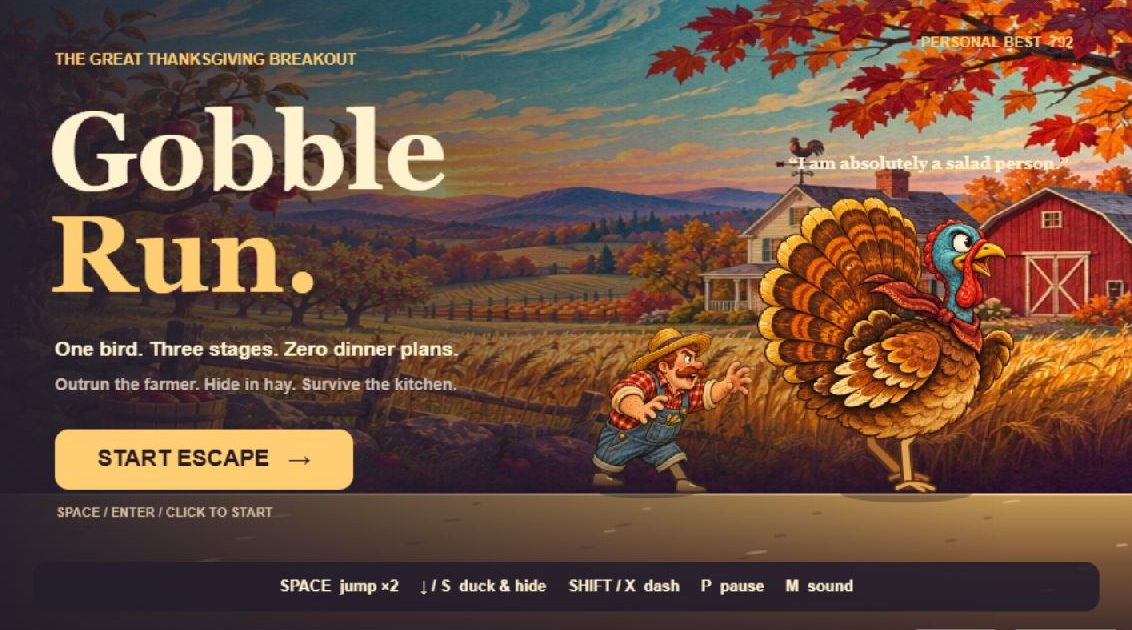
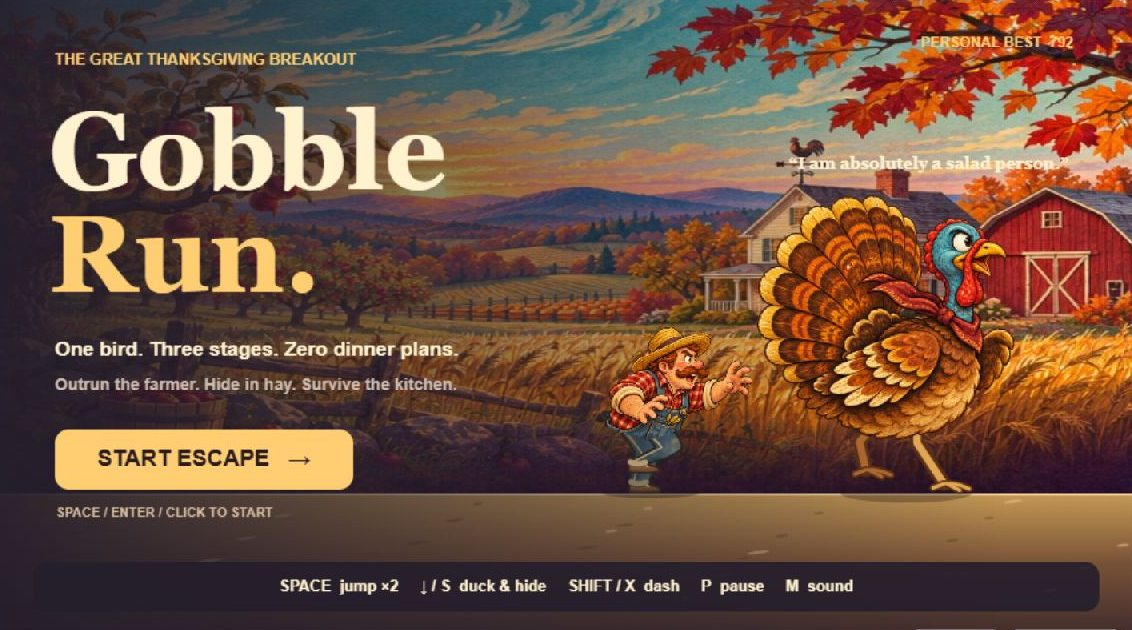
Animate the farmer from the hips through the knees

diff --git a/game/src/characters.js b/game/src/characters.js
@@ -86,19 +86,62 @@ export function drawPaintedTurkey(ctx, art, turkey) {
   ctx.restore();
 }
 
-function farmerBoot(ctx, cuffX, cuffY, ankleX, soleY, rear) {
-  ctx.lineCap = 'round';
+function farmerTrouserLeg(ctx, art, hipX, hipY, ankleX, soleY, rear) {
+  const ankleY = soleY - 6;
+  const dx = ankleX - hipX;
+  const dy = ankleY - hipY;
+  const distance = Math.hypot(dx, dy);
+  // Bend the knee forward between the hip and the planted or swinging foot.
+  const bend = Math.sqrt(Math.max(0, 21 ** 2 - (distance / 2) ** 2));
+  const kneeX = hipX + dx / 2 + dy / distance * bend;
+  const kneeY = hipY + dy / 2 - dx / distance * bend;
+
+  const denim = ctx.createLinearGradient(kneeX - 11, kneeY, kneeX + 9, kneeY);
+  denim.addColorStop(0, rear ? '#222c31' : '#28363b');
+  denim.addColorStop(0.64, rear ? '#364650' : '#405564');
+  denim.addColorStop(1, rear ? '#465250' : '#626959');
+  ctx.fillStyle = denim;
+  ctx.strokeStyle = '#242425';
+  ctx.lineWidth = 1.35;
   ctx.lineJoin = 'round';
   ctx.beginPath();
-  ctx.moveTo(cuffX, cuffY);
-  ctx.lineTo(ankleX, soleY - 5);
-  ctx.strokeStyle = '#342721';
-  ctx.lineWidth = 8.5;
-  ctx.stroke();
-  ctx.strokeStyle = rear ? '#634630' : '#8f633d';
-  ctx.lineWidth = 5.5;
+  ctx.moveTo(hipX - 12, hipY - 7);
+  ctx.quadraticCurveTo(kneeX - 10, kneeY - 5, kneeX - 7, kneeY + 2);
+  ctx.lineTo(ankleX - 6, ankleY);
+  ctx.quadraticCurveTo(ankleX, ankleY + 3, ankleX + 6, ankleY);
+  ctx.quadraticCurveTo(kneeX + 7, kneeY + 7, kneeX + 9, kneeY + 2);
+  ctx.quadraticCurveTo(kneeX + 10, kneeY - 4, hipX + 10, hipY - 8);
+  ctx.closePath();
+  ctx.fill();
+  // Reuse the painted denim grain to blend the moving legs into the bib.
+  const left = Math.min(hipX - 12, kneeX - 10, ankleX - 6);
+  const right = Math.max(hipX + 10, kneeX + 10, ankleX + 6);
+  ctx.save();
+  ctx.clip();
+  ctx.globalAlpha *= rear ? 0.34 : 0.55;
+  ctx.drawImage(art, 33, 313, 22, 24, left, hipY - 8, right - left, ankleY - hipY + 12);
+  ctx.restore();
   ctx.stroke();
 
+  ctx.lineCap = 'round';
+  ctx.lineWidth = 1;
+  ctx.strokeStyle = rear ? '#8b785a' : '#bc9c68';
+  ctx.beginPath();
+  ctx.moveTo(hipX - 6, hipY - 4);
+  ctx.quadraticCurveTo(kneeX - 6, kneeY - 3, kneeX - 3, kneeY + 2);
+  ctx.lineTo(ankleX - 3, ankleY - 1);
+  ctx.stroke();
+  ctx.lineWidth = 3.4;
+  ctx.strokeStyle = rear ? '#85745a' : '#b49a72';
+  ctx.beginPath();
+  ctx.moveTo(ankleX - 4.6, ankleY - 0.8);
+  ctx.quadraticCurveTo(ankleX, ankleY + 1.3, ankleX + 4.6, ankleY - 0.7);
+  ctx.stroke();
+}
+
+function farmerBoot(ctx, ankleX, soleY, rear) {
+  ctx.lineCap = 'round';
+  ctx.lineJoin = 'round';
   ctx.save();
   ctx.translate(ankleX, soleY);
   ctx.beginPath();
@@ -127,21 +170,33 @@ function farmerBoot(ctx, cuffX, cuffY, ankleX, soleY, rear) {
 }
 
 export function drawPaintedFarmer(ctx, art, farmer) {
-  const phase = (farmer.legTimer * 0.25) % TAU;
-  const bodyX = -48;
-  const bodyWidth = 98;
-  const bodyHeight = 89;
-  const bodyBottom = -10 - Math.abs(Math.sin(phase)) * 2;
+  const phase = (farmer.legTimer * 0.18) % TAU;
+  const bob = -2 * Math.sin(phase) ** 2;
   ctx.save();
   ctx.translate(farmer.x + farmer.width / 2, farmer.y + farmer.height);
-  shadow(ctx, -14, 29, 0.38);
+  shadow(ctx, -12, 29, 0.38);
   for (const rear of [true, false]) {
-    // The illustration already has two separate trouser cuffs.
-    const cuffX = bodyX + (rear ? 0.115 : 0.48) * bodyWidth;
-    const cuffY = bodyBottom - (rear ? 5 : 10);
-    const [swing, rise] = stride(phase + (rear ? Math.PI : 0), 7, 6);
-    farmerBoot(ctx, cuffX, cuffY, cuffX + (rear ? -2 : 7) + swing, rise, rear);
+    const hipX = rear ? -29 : -20;
+    const hipY = (rear ? -40 : -39) + bob;
+    const [swing, rise] = stride(phase + (rear ? Math.PI : 0), 19, 14);
+    const ankleX = hipX + 5 + swing;
+    farmerBoot(ctx, ankleX, rise, rear);
+    farmerTrouserLeg(ctx, art, hipX, hipY, ankleX, rise, rear);
   }
-  ctx.drawImage(art, bodyX, bodyBottom - bodyHeight, bodyWidth, bodyHeight);
+
+  // Preserve the painted waist and pockets while hiding the fixed pose below them.
+  ctx.save();
+  ctx.translate(-48, -99 + bob);
+  ctx.beginPath();
+  ctx.moveTo(0, 0);
+  ctx.lineTo(98, 0);
+  ctx.lineTo(98, 63);
+  ctx.lineTo(57, 62);
+  ctx.bezierCurveTo(49, 62, 44, 69, 33, 68);
+  ctx.quadraticCurveTo(19, 66, 0, 57);
+  ctx.closePath();
+  ctx.clip();
+  ctx.drawImage(art, 0, 0, 98, 89);
+  ctx.restore();
   ctx.restore();
 }
